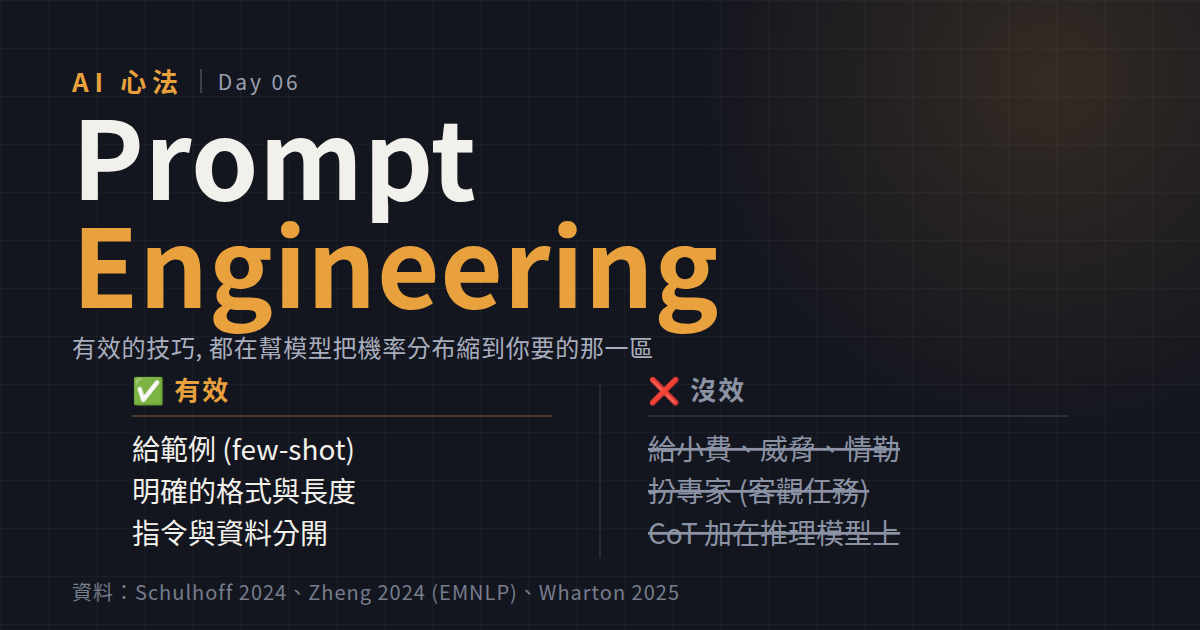
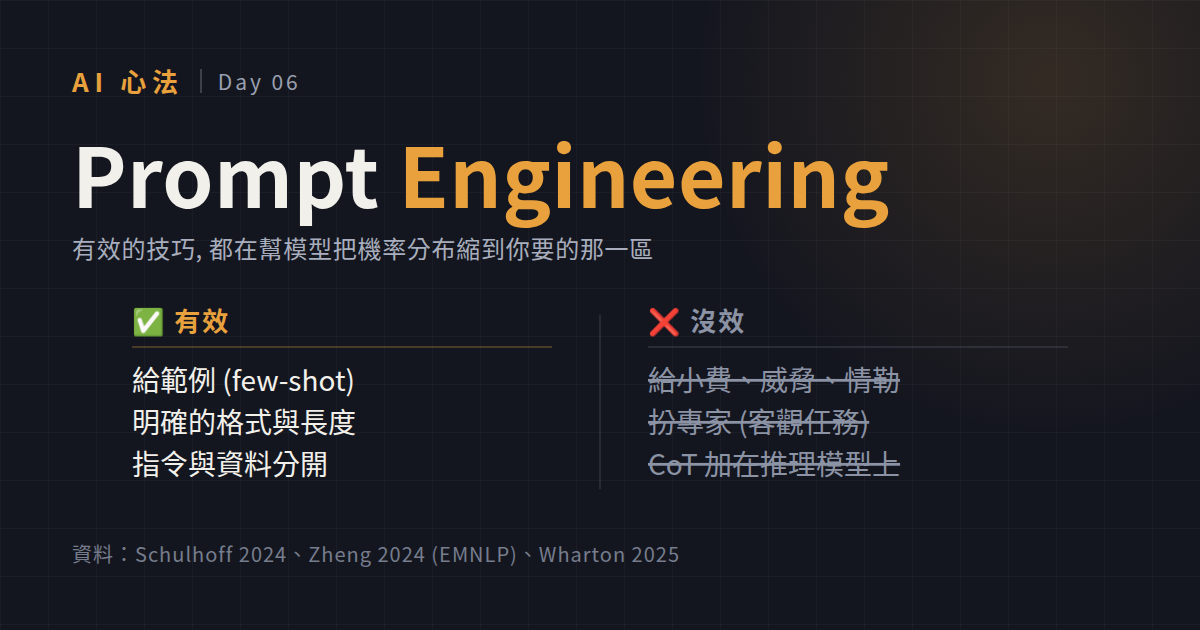
Day 06 封面：H1 縮到 82px, 從兩行變一行
108px 兩行太占版面, 縮到 82px 讓 Prompt Engineering 一行放得下,
中央表格與副標的視覺呼吸空間都回來了.

Changed region(s): [[0.0617, 0.181, 0.8633, 0.9651]]

diff --git a/05-notes/ironman/assets/cover-day06.html b/05-notes/ironman/assets/cover-day06.html
@@ -12,7 +12,7 @@ body{width:1200px;height:630px;font-family:"Noto Sans CJK TC",sans-serif;
 .mark{font-size:26px;font-weight:700;letter-spacing:.22em;color:#e8a13c}
 .bar{width:2px;height:24px;background:#ffffff2e}
 .day{font-size:21px;letter-spacing:.14em;color:#9aa0b0}
-h1{font-size:108px;font-weight:900;line-height:1;letter-spacing:.005em}
+h1{font-size:82px;font-weight:900;line-height:1.05;letter-spacing:.005em}
 h1 em{font-style:normal;color:#e8a13c}
 .sub{margin-top:14px;font-size:24px;color:#a8aebd;letter-spacing:.03em}
 .chartwrap{margin-bottom:6px;margin-top:6px}
